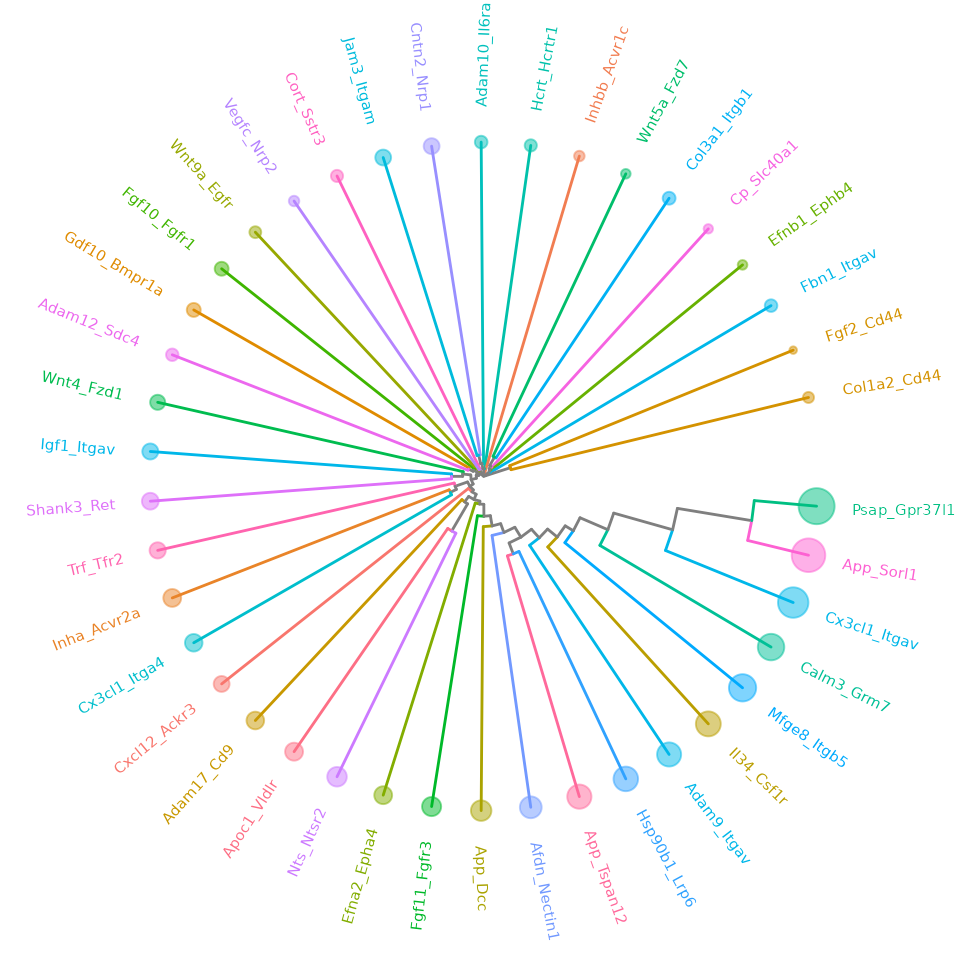
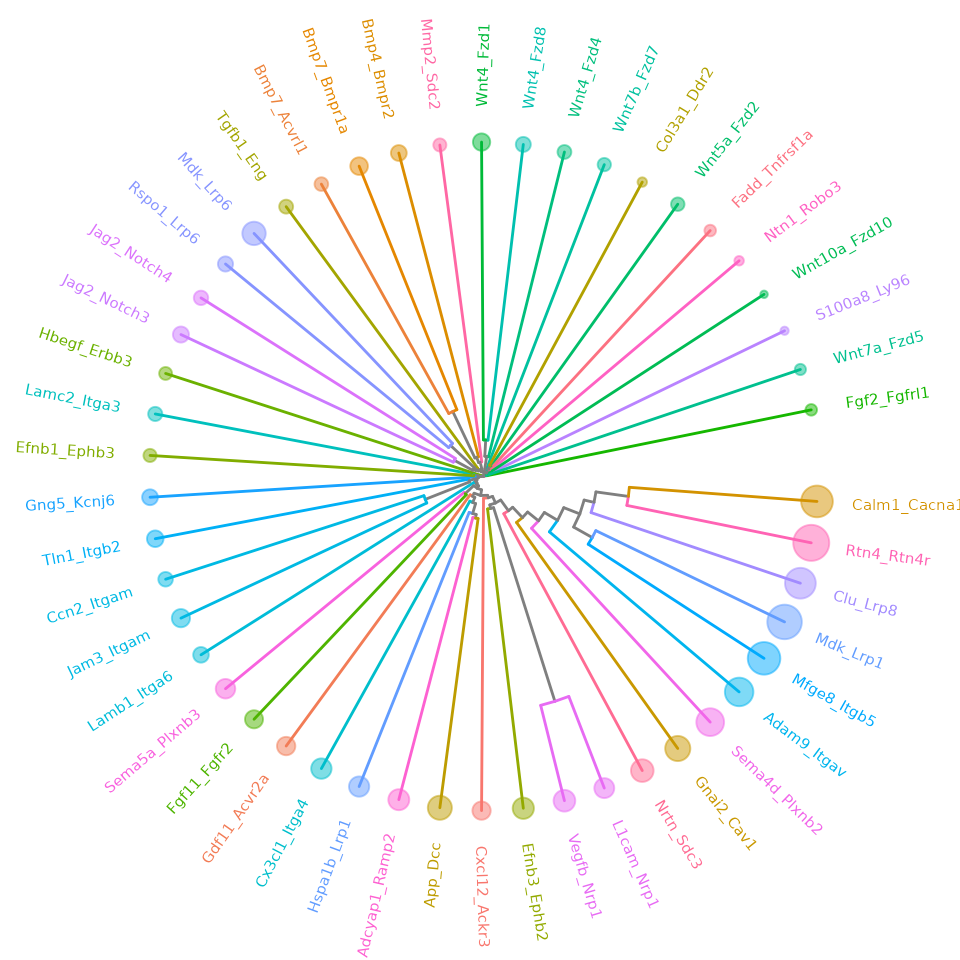
Deploying to gh-pages from @ skimlab/spatialCCC@8913e9cb30334f1d5c7f32b35a7b2b37467f4e1b 🚀

diff --git a/articles/article-1.html b/articles/article-1.html
@@ -129,16 +129,16 @@ retrieve the database.</p>
 <span><span class="co">#&gt; <span style="color: #949494;"># A tibble: 105 × 10</span></span></span>
 <span><span class="co">#&gt;    LR    ligand_gene_symbol receptor_gene_symbol ligand_gene_id receptor_gene_id</span></span>
 <span><span class="co">#&gt;    <span style="color: #949494; font-style: italic;">&lt;chr&gt;</span> <span style="color: #949494; font-style: italic;">&lt;chr&gt;</span>              <span style="color: #949494; font-style: italic;">&lt;chr&gt;</span>                         <span style="color: #949494; font-style: italic;">&lt;dbl&gt;</span>            <span style="color: #949494; font-style: italic;">&lt;dbl&gt;</span></span></span>
-<span><span class="co">#&gt; <span style="color: #BCBCBC;"> 1</span> Adam… Adam10             Il6ra                         <span style="text-decoration: underline;">11</span>487            <span style="text-decoration: underline;">16</span>194</span></span>
-<span><span class="co">#&gt; <span style="color: #BCBCBC;"> 2</span> Adam… Adam12             Sdc4                          <span style="text-decoration: underline;">11</span>489            <span style="text-decoration: underline;">20</span>971</span></span>
-<span><span class="co">#&gt; <span style="color: #BCBCBC;"> 3</span> Adam… Adam17             Cd9                           <span style="text-decoration: underline;">11</span>491            <span style="text-decoration: underline;">12</span>527</span></span>
-<span><span class="co">#&gt; <span style="color: #BCBCBC;"> 4</span> Adam… Adam2              Itgb1                         <span style="text-decoration: underline;">11</span>495            <span style="text-decoration: underline;">16</span>412</span></span>
-<span><span class="co">#&gt; <span style="color: #BCBCBC;"> 5</span> Adam… Adam9              Itgav                         <span style="text-decoration: underline;">11</span>502            <span style="text-decoration: underline;">16</span>410</span></span>
-<span><span class="co">#&gt; <span style="color: #BCBCBC;"> 6</span> Afdn… Afdn               Nectin1                       <span style="text-decoration: underline;">17</span>356            <span style="text-decoration: underline;">58</span>235</span></span>
-<span><span class="co">#&gt; <span style="color: #BCBCBC;"> 7</span> Agrn… Agrn               Musk                          <span style="text-decoration: underline;">11</span>603            <span style="text-decoration: underline;">18</span>198</span></span>
-<span><span class="co">#&gt; <span style="color: #BCBCBC;"> 8</span> Amel… Amelx              Cd63                          <span style="text-decoration: underline;">11</span>704            <span style="text-decoration: underline;">12</span>512</span></span>
-<span><span class="co">#&gt; <span style="color: #BCBCBC;"> 9</span> Apob… Apob               Lrp6                         <span style="text-decoration: underline;">238</span>055            <span style="text-decoration: underline;">16</span>974</span></span>
-<span><span class="co">#&gt; <span style="color: #BCBCBC;">10</span> Apoc… Apoc1              Vldlr                         <span style="text-decoration: underline;">11</span>812            <span style="text-decoration: underline;">22</span>359</span></span>
+<span><span class="co">#&gt; <span style="color: #BCBCBC;"> 1</span> Adam… Adam17             Tnfrsf1b                      <span style="text-decoration: underline;">11</span>491            <span style="text-decoration: underline;">21</span>938</span></span>
+<span><span class="co">#&gt; <span style="color: #BCBCBC;"> 2</span> Adam… Adam9              Itgav                         <span style="text-decoration: underline;">11</span>502            <span style="text-decoration: underline;">16</span>410</span></span>
+<span><span class="co">#&gt; <span style="color: #BCBCBC;"> 3</span> Adcy… Adcyap1            Ramp2                         <span style="text-decoration: underline;">11</span>516            <span style="text-decoration: underline;">54</span>409</span></span>
+<span><span class="co">#&gt; <span style="color: #BCBCBC;"> 4</span> Adip… Adipoq             Adipor2                       <span style="text-decoration: underline;">11</span>450            <span style="text-decoration: underline;">68</span>465</span></span>
+<span><span class="co">#&gt; <span style="color: #BCBCBC;"> 5</span> Adm2… Adm2               Calcrl                       <span style="text-decoration: underline;">223</span>780            <span style="text-decoration: underline;">54</span>598</span></span>
+<span><span class="co">#&gt; <span style="color: #BCBCBC;"> 6</span> Agt_… Agt                Agtr1a                        <span style="text-decoration: underline;">11</span>606            <span style="text-decoration: underline;">11</span>607</span></span>
+<span><span class="co">#&gt; <span style="color: #BCBCBC;"> 7</span> Apob… Apob               Cd36                         <span style="text-decoration: underline;">238</span>055            <span style="text-decoration: underline;">12</span>491</span></span>
+<span><span class="co">#&gt; <span style="color: #BCBCBC;"> 8</span> Apoe… Apoe               Sdc1                          <span style="text-decoration: underline;">11</span>816            <span style="text-decoration: underline;">20</span>969</span></span>
+<span><span class="co">#&gt; <span style="color: #BCBCBC;"> 9</span> App_… App                Dcc                           <span style="text-decoration: underline;">11</span>820            <span style="text-decoration: underline;">13</span>176</span></span>
+<span><span class="co">#&gt; <span style="color: #BCBCBC;">10</span> Bmp4… Bmp4               Bmpr2                         <span style="text-decoration: underline;">12</span>159            <span style="text-decoration: underline;">12</span>168</span></span>
 <span><span class="co">#&gt; <span style="color: #949494;"># ℹ 95 more rows</span></span></span>
 <span><span class="co">#&gt; <span style="color: #949494;"># ℹ 5 more variables: ligand_ensembl_protein_id &lt;chr&gt;,</span></span></span>
 <span><span class="co">#&gt; <span style="color: #949494;">#   receptor_ensembl_protein_id &lt;chr&gt;, ligand_ensembl_gene_id &lt;chr&gt;,</span></span></span>
@@ -196,26 +196,26 @@ retrieve the database.</p>
 <span>                               assay_name <span class="op">=</span> <span class="st">"logcounts"</span>,</span>
 <span>                               LRdb <span class="op">=</span> <span class="va">LRdb_m</span><span class="op">)</span></span>
 <span><span class="fu">tictoc</span><span class="fu">::</span><span class="fu"><a href="https://rdrr.io/pkg/tictoc/man/tic.html" class="external-link">toc</a></span><span class="op">(</span><span class="op">)</span></span>
-<span><span class="co">#&gt; 20.547 sec elapsed</span></span>
+<span><span class="co">#&gt; 22.789 sec elapsed</span></span>
 <span></span>
 <span><span class="co"># future::plan(future::sequential)</span></span></code></pre></div>
 <div class="sourceCode" id="cb8"><pre class="downlit sourceCode r">
 <code class="sourceCode R"><span><span class="va">ccc_tbl</span> <span class="op"><a href="https://magrittr.tidyverse.org/reference/pipe.html" class="external-link">%&gt;%</a></span> </span>
 <span>  <span class="fu">dplyr</span><span class="fu">::</span><span class="fu"><a href="https://dplyr.tidyverse.org/reference/arrange.html" class="external-link">arrange</a></span><span class="op">(</span><span class="fu">desc</span><span class="op">(</span><span class="va">LRscore</span><span class="op">)</span><span class="op">)</span></span>
-<span><span class="co">#&gt; <span style="color: #949494;"># A tibble: 134,740 × 10</span></span></span>
+<span><span class="co">#&gt; <span style="color: #949494;"># A tibble: 113,546 × 10</span></span></span>
 <span><span class="co">#&gt;    src          dst       d norm.d LR    ligand receptor LRscore weight WLRscore</span></span>
 <span><span class="co">#&gt;    <span style="color: #949494; font-style: italic;">&lt;chr&gt;</span>        <span style="color: #949494; font-style: italic;">&lt;chr&gt;</span> <span style="color: #949494; font-style: italic;">&lt;dbl&gt;</span>  <span style="color: #949494; font-style: italic;">&lt;dbl&gt;</span> <span style="color: #949494; font-style: italic;">&lt;chr&gt;</span> <span style="color: #949494; font-style: italic;">&lt;chr&gt;</span>  <span style="color: #949494; font-style: italic;">&lt;chr&gt;</span>      <span style="color: #949494; font-style: italic;">&lt;dbl&gt;</span>  <span style="color: #949494; font-style: italic;">&lt;dbl&gt;</span>    <span style="color: #949494; font-style: italic;">&lt;dbl&gt;</span></span></span>
-<span><span class="co">#&gt; <span style="color: #BCBCBC;"> 1</span> AATGCAACCGG… GCTC…  138.   1.01 Psap… Psap   Gpr37l1    0.868  0.980    0.850</span></span>
-<span><span class="co">#&gt; <span style="color: #BCBCBC;"> 2</span> CTGTGCAGGGT… CCTA…  138    1.01 Psap… Psap   Gpr37l1    0.866  0.986    0.854</span></span>
-<span><span class="co">#&gt; <span style="color: #BCBCBC;"> 3</span> AGTATTTGGCA… GGGC…  138.   1.01 Psap… Psap   Gpr37l1    0.866  0.987    0.854</span></span>
-<span><span class="co">#&gt; <span style="color: #BCBCBC;"> 4</span> TAGTGTCAGAA… GTTA…  138.   1.01 Psap… Psap   Gpr37l1    0.865  0.980    0.848</span></span>
-<span><span class="co">#&gt; <span style="color: #BCBCBC;"> 5</span> CGTGCTGGCCT… GGGT…  137    1    Psap… Psap   Gpr37l1    0.865  1        0.865</span></span>
-<span><span class="co">#&gt; <span style="color: #BCBCBC;"> 6</span> TTCAAAGTCTC… TATT…  138.   1.00 Psap… Psap   Gpr37l1    0.865  0.992    0.858</span></span>
-<span><span class="co">#&gt; <span style="color: #BCBCBC;"> 7</span> TTGCTGCACCT… GTTA…  138    1.01 Psap… Psap   Gpr37l1    0.865  0.986    0.852</span></span>
-<span><span class="co">#&gt; <span style="color: #BCBCBC;"> 8</span> TTGTTAGCAAA… TGCT…  138.   1.01 Psap… Psap   Gpr37l1    0.865  0.980    0.847</span></span>
-<span><span class="co">#&gt; <span style="color: #BCBCBC;"> 9</span> TCGTGTCACGC… CAAA…  138.   1.01 Psap… Psap   Gpr37l1    0.865  0.980    0.847</span></span>
-<span><span class="co">#&gt; <span style="color: #BCBCBC;">10</span> ATCGCACGCCG… GCTC…  138.   1.01 Psap… Psap   Gpr37l1    0.864  0.980    0.846</span></span>
-<span><span class="co">#&gt; <span style="color: #949494;"># ℹ 134,730 more rows</span></span></span></code></pre></div>
+<span><span class="co">#&gt; <span style="color: #BCBCBC;"> 1</span> GATATGGATTA… GATA…    0    0    Clu_… Clu    Lrp8       0.858  1        0.858</span></span>
+<span><span class="co">#&gt; <span style="color: #BCBCBC;"> 2</span> TCACATCTTAT… GATA…  138.   1.01 Clu_… Clu    Lrp8       0.852  0.986    0.840</span></span>
+<span><span class="co">#&gt; <span style="color: #BCBCBC;"> 3</span> TCGTCACACTG… GATA…  138.   1.01 Clu_… Clu    Lrp8       0.850  0.980    0.833</span></span>
+<span><span class="co">#&gt; <span style="color: #BCBCBC;"> 4</span> TTATCGCCTGC… GATA…  138.   1.01 Clu_… Clu    Lrp8       0.849  0.980    0.832</span></span>
+<span><span class="co">#&gt; <span style="color: #BCBCBC;"> 5</span> TTGATTATGCA… TTAT…  138    1.01 Clu_… Clu    Lrp8       0.846  0.986    0.834</span></span>
+<span><span class="co">#&gt; <span style="color: #BCBCBC;"> 6</span> CGCAAACACGA… TTAT…  137    1    Clu_… Clu    Lrp8       0.845  1        0.845</span></span>
+<span><span class="co">#&gt; <span style="color: #BCBCBC;"> 7</span> CTAATTCGCAC… TTAT…  138.   1.00 Clu_… Clu    Lrp8       0.844  0.992    0.838</span></span>
+<span><span class="co">#&gt; <span style="color: #BCBCBC;"> 8</span> AGAGCAGTTAT… GATA…  138.   1.00 Clu_… Clu    Lrp8       0.844  0.992    0.837</span></span>
+<span><span class="co">#&gt; <span style="color: #BCBCBC;"> 9</span> TGTCGGCATGG… GGGT…  138    1.01 Rtn4… Rtn4   Rtn4r      0.844  0.986    0.831</span></span>
+<span><span class="co">#&gt; <span style="color: #BCBCBC;">10</span> TCAGTACTGAC… TTAT…  138.   1.01 Clu_… Clu    Lrp8       0.843  0.980    0.826</span></span>
+<span><span class="co">#&gt; <span style="color: #949494;"># ℹ 113,536 more rows</span></span></span></code></pre></div>
 <div class="section level3">
 <h3 id="add-cluster-lables-to-ccc-table-">Add cluster lables to CCC table.<a class="anchor" aria-label="anchor" href="#add-cluster-lables-to-ccc-table-"></a>
 </h3>
@@ -240,40 +240,40 @@ retrieve the database.</p>
 <span></span>
 <span><span class="va">ccc_tbl_between_clusters</span> <span class="op"><a href="https://magrittr.tidyverse.org/reference/pipe.html" class="external-link">%&gt;%</a></span></span>
 <span>  <span class="fu">dplyr</span><span class="fu">::</span><span class="fu"><a href="https://dplyr.tidyverse.org/reference/arrange.html" class="external-link">arrange</a></span><span class="op">(</span><span class="fu">desc</span><span class="op">(</span><span class="va">n</span><span class="op">)</span><span class="op">)</span></span>
-<span><span class="co">#&gt; <span style="color: #949494;"># A tibble: 1,371 × 6</span></span></span>
+<span><span class="co">#&gt; <span style="color: #949494;"># A tibble: 1,603 × 6</span></span></span>
 <span><span class="co">#&gt; <span style="color: #949494;"># Groups:   mclust_8.src, mclust_8.dst [46]</span></span></span>
-<span><span class="co">#&gt;    mclust_8.src mclust_8.dst LR               n LRscore.sum WLRscore.sum</span></span>
-<span><span class="co">#&gt;    <span style="color: #949494; font-style: italic;">&lt;fct&gt;</span>        <span style="color: #949494; font-style: italic;">&lt;fct&gt;</span>        <span style="color: #949494; font-style: italic;">&lt;chr&gt;</span>        <span style="color: #949494; font-style: italic;">&lt;int&gt;</span>       <span style="color: #949494; font-style: italic;">&lt;dbl&gt;</span>        <span style="color: #949494; font-style: italic;">&lt;dbl&gt;</span></span></span>
-<span><span class="co">#&gt; <span style="color: #BCBCBC;"> 1</span> 3            3            Psap_Gpr37l1  <span style="text-decoration: underline;">4</span>646       <span style="text-decoration: underline;">3</span>815.        <span style="text-decoration: underline;">3</span>773.</span></span>
-<span><span class="co">#&gt; <span style="color: #BCBCBC;"> 2</span> 3            3            App_Sorl1     <span style="text-decoration: underline;">3</span>811       <span style="text-decoration: underline;">2</span>902.        <span style="text-decoration: underline;">2</span>871.</span></span>
-<span><span class="co">#&gt; <span style="color: #BCBCBC;"> 3</span> 3            3            Cx3cl1_Itgav  <span style="text-decoration: underline;">2</span>470       <span style="text-decoration: underline;">1</span>681.        <span style="text-decoration: underline;">1</span>663.</span></span>
-<span><span class="co">#&gt; <span style="color: #BCBCBC;"> 4</span> 3            3            Mfge8_Itgb5   <span style="text-decoration: underline;">2</span>237       <span style="text-decoration: underline;">1</span>466.        <span style="text-decoration: underline;">1</span>450.</span></span>
-<span><span class="co">#&gt; <span style="color: #BCBCBC;"> 5</span> 2            2            Psap_Gpr37l1  <span style="text-decoration: underline;">2</span>195       <span style="text-decoration: underline;">1</span>782.        <span style="text-decoration: underline;">1</span>762.</span></span>
-<span><span class="co">#&gt; <span style="color: #BCBCBC;"> 6</span> 3            3            Calm3_Grm7    <span style="text-decoration: underline;">1</span>911       <span style="text-decoration: underline;">1</span>388.        <span style="text-decoration: underline;">1</span>373.</span></span>
-<span><span class="co">#&gt; <span style="color: #BCBCBC;"> 7</span> 3            3            Nts_Ntsr2     <span style="text-decoration: underline;">1</span>853       <span style="text-decoration: underline;">1</span>317.        <span style="text-decoration: underline;">1</span>302.</span></span>
-<span><span class="co">#&gt; <span style="color: #BCBCBC;"> 8</span> 2            2            App_Sorl1     <span style="text-decoration: underline;">1</span>737       <span style="text-decoration: underline;">1</span>346.        <span style="text-decoration: underline;">1</span>331.</span></span>
-<span><span class="co">#&gt; <span style="color: #BCBCBC;"> 9</span> 1            1            Psap_Gpr37l1  <span style="text-decoration: underline;">1</span>711       <span style="text-decoration: underline;">1</span>393.        <span style="text-decoration: underline;">1</span>378.</span></span>
-<span><span class="co">#&gt; <span style="color: #BCBCBC;">10</span> 4            4            Psap_Gpr37l1  <span style="text-decoration: underline;">1</span>623       <span style="text-decoration: underline;">1</span>340.        <span style="text-decoration: underline;">1</span>325.</span></span>
-<span><span class="co">#&gt; <span style="color: #949494;"># ℹ 1,361 more rows</span></span></span></code></pre></div>
+<span><span class="co">#&gt;    mclust_8.src mclust_8.dst LR                n LRscore.sum WLRscore.sum</span></span>
+<span><span class="co">#&gt;    <span style="color: #949494; font-style: italic;">&lt;fct&gt;</span>        <span style="color: #949494; font-style: italic;">&lt;fct&gt;</span>        <span style="color: #949494; font-style: italic;">&lt;chr&gt;</span>         <span style="color: #949494; font-style: italic;">&lt;int&gt;</span>       <span style="color: #949494; font-style: italic;">&lt;dbl&gt;</span>        <span style="color: #949494; font-style: italic;">&lt;dbl&gt;</span></span></span>
+<span><span class="co">#&gt; <span style="color: #BCBCBC;"> 1</span> 3            3            Mdk_Lrp1       <span style="text-decoration: underline;">3</span>225       <span style="text-decoration: underline;">2</span>246.        <span style="text-decoration: underline;">2</span>221.</span></span>
+<span><span class="co">#&gt; <span style="color: #BCBCBC;"> 2</span> 3            3            Mfge8_Itgb5    <span style="text-decoration: underline;">2</span>237       <span style="text-decoration: underline;">1</span>466.        <span style="text-decoration: underline;">1</span>450.</span></span>
+<span><span class="co">#&gt; <span style="color: #BCBCBC;"> 3</span> 2            2            Rtn4_Rtn4r     <span style="text-decoration: underline;">1</span>717       <span style="text-decoration: underline;">1</span>294.        <span style="text-decoration: underline;">1</span>279.</span></span>
+<span><span class="co">#&gt; <span style="color: #BCBCBC;"> 4</span> 3            3            Clu_Lrp8       <span style="text-decoration: underline;">1</span>709       <span style="text-decoration: underline;">1</span>267.        <span style="text-decoration: underline;">1</span>253.</span></span>
+<span><span class="co">#&gt; <span style="color: #BCBCBC;"> 5</span> 3            3            Calm1_Cacna1c  <span style="text-decoration: underline;">1</span>646       <span style="text-decoration: underline;">1</span>230.        <span style="text-decoration: underline;">1</span>217.</span></span>
+<span><span class="co">#&gt; <span style="color: #BCBCBC;"> 6</span> 3            3            Rtn4_Rtn4r     <span style="text-decoration: underline;">1</span>643       <span style="text-decoration: underline;">1</span>153.        <span style="text-decoration: underline;">1</span>141.</span></span>
+<span><span class="co">#&gt; <span style="color: #BCBCBC;"> 7</span> 1            1            Rtn4_Rtn4r     <span style="text-decoration: underline;">1</span>617       <span style="text-decoration: underline;">1</span>267.        <span style="text-decoration: underline;">1</span>253.</span></span>
+<span><span class="co">#&gt; <span style="color: #BCBCBC;"> 8</span> 3            3            Sema4d_Plxnb2  <span style="text-decoration: underline;">1</span>521        944.         934.</span></span>
+<span><span class="co">#&gt; <span style="color: #BCBCBC;"> 9</span> 2            2            Mdk_Lrp1       <span style="text-decoration: underline;">1</span>233        838.         829.</span></span>
+<span><span class="co">#&gt; <span style="color: #BCBCBC;">10</span> 6            6            Rtn4_Rtn4r     <span style="text-decoration: underline;">1</span>232        945.         935.</span></span>
+<span><span class="co">#&gt; <span style="color: #949494;"># ℹ 1,593 more rows</span></span></span></code></pre></div>
 <div class="sourceCode" id="cb11"><pre class="downlit sourceCode r">
 <code class="sourceCode R"><span><span class="va">ccc_tbl_between_clusters</span> <span class="op"><a href="https://magrittr.tidyverse.org/reference/pipe.html" class="external-link">%&gt;%</a></span></span>
 <span>  <span class="fu">dplyr</span><span class="fu">::</span><span class="fu"><a href="https://dplyr.tidyverse.org/reference/filter.html" class="external-link">filter</a></span><span class="op">(</span><span class="va">mclust_8.dst</span> <span class="op">!=</span> <span class="va">mclust_8.src</span><span class="op">)</span> <span class="op"><a href="https://magrittr.tidyverse.org/reference/pipe.html" class="external-link">%&gt;%</a></span></span>
 <span>  <span class="fu">dplyr</span><span class="fu">::</span><span class="fu"><a href="https://dplyr.tidyverse.org/reference/arrange.html" class="external-link">arrange</a></span><span class="op">(</span><span class="fu">desc</span><span class="op">(</span><span class="va">n</span><span class="op">)</span><span class="op">)</span></span>
-<span><span class="co">#&gt; <span style="color: #949494;"># A tibble: 1,044 × 6</span></span></span>
+<span><span class="co">#&gt; <span style="color: #949494;"># A tibble: 1,214 × 6</span></span></span>
 <span><span class="co">#&gt; <span style="color: #949494;"># Groups:   mclust_8.src, mclust_8.dst [38]</span></span></span>
-<span><span class="co">#&gt;    mclust_8.src mclust_8.dst LR               n LRscore.sum WLRscore.sum</span></span>
-<span><span class="co">#&gt;    <span style="color: #949494; font-style: italic;">&lt;fct&gt;</span>        <span style="color: #949494; font-style: italic;">&lt;fct&gt;</span>        <span style="color: #949494; font-style: italic;">&lt;chr&gt;</span>        <span style="color: #949494; font-style: italic;">&lt;int&gt;</span>       <span style="color: #949494; font-style: italic;">&lt;dbl&gt;</span>        <span style="color: #949494; font-style: italic;">&lt;dbl&gt;</span></span></span>
-<span><span class="co">#&gt; <span style="color: #BCBCBC;"> 1</span> 3            5            Psap_Gpr37l1   329        268.         264.</span></span>
-<span><span class="co">#&gt; <span style="color: #BCBCBC;"> 2</span> 5            3            Psap_Gpr37l1   327        270.         266.</span></span>
-<span><span class="co">#&gt; <span style="color: #BCBCBC;"> 3</span> 3            5            App_Sorl1      276        215.         212.</span></span>
-<span><span class="co">#&gt; <span style="color: #BCBCBC;"> 4</span> 5            3            App_Sorl1      250        193.         190.</span></span>
-<span><span class="co">#&gt; <span style="color: #BCBCBC;"> 5</span> 3            8            Psap_Gpr37l1   222        182.         179.</span></span>
-<span><span class="co">#&gt; <span style="color: #BCBCBC;"> 6</span> 8            3            Psap_Gpr37l1   218        179.         177.</span></span>
-<span><span class="co">#&gt; <span style="color: #BCBCBC;"> 7</span> 3            5            Cx3cl1_Itgav   202        140.         138.</span></span>
-<span><span class="co">#&gt; <span style="color: #BCBCBC;"> 8</span> 3            8            App_Sorl1      170        132.         130.</span></span>
-<span><span class="co">#&gt; <span style="color: #BCBCBC;"> 9</span> 3            5            Mfge8_Itgb5    161        110.         109.</span></span>
-<span><span class="co">#&gt; <span style="color: #BCBCBC;">10</span> 8            3            App_Sorl1      154        119.         118.</span></span>
-<span><span class="co">#&gt; <span style="color: #949494;"># ℹ 1,034 more rows</span></span></span></code></pre></div>
+<span><span class="co">#&gt;    mclust_8.src mclust_8.dst LR                n LRscore.sum WLRscore.sum</span></span>
+<span><span class="co">#&gt;    <span style="color: #949494; font-style: italic;">&lt;fct&gt;</span>        <span style="color: #949494; font-style: italic;">&lt;fct&gt;</span>        <span style="color: #949494; font-style: italic;">&lt;chr&gt;</span>         <span style="color: #949494; font-style: italic;">&lt;int&gt;</span>       <span style="color: #949494; font-style: italic;">&lt;dbl&gt;</span>        <span style="color: #949494; font-style: italic;">&lt;dbl&gt;</span></span></span>
+<span><span class="co">#&gt; <span style="color: #BCBCBC;"> 1</span> 3            5            Rtn4_Rtn4r      194       146.         143. </span></span>
+<span><span class="co">#&gt; <span style="color: #BCBCBC;"> 2</span> 5            3            Mdk_Lrp1        178       124.         122. </span></span>
+<span><span class="co">#&gt; <span style="color: #BCBCBC;"> 3</span> 3            5            Mdk_Lrp1        167       121.         119. </span></span>
+<span><span class="co">#&gt; <span style="color: #BCBCBC;"> 4</span> 3            5            Calm1_Cacna1c   163       123.         121. </span></span>
+<span><span class="co">#&gt; <span style="color: #BCBCBC;"> 5</span> 3            5            Mfge8_Itgb5     161       110.         109. </span></span>
+<span><span class="co">#&gt; <span style="color: #BCBCBC;"> 6</span> 1            6            Rtn4_Rtn4r      145       114.         112. </span></span>
+<span><span class="co">#&gt; <span style="color: #BCBCBC;"> 7</span> 6            1            Rtn4_Rtn4r      144       113.         112. </span></span>
+<span><span class="co">#&gt; <span style="color: #BCBCBC;"> 8</span> 3            8            Mdk_Lrp1        136        95.5         94.1</span></span>
+<span><span class="co">#&gt; <span style="color: #BCBCBC;"> 9</span> 6            7            Rtn4_Rtn4r      136       106.         104. </span></span>
+<span><span class="co">#&gt; <span style="color: #BCBCBC;">10</span> 3            5            Clu_Lrp8        130        97.9         96.5</span></span>
+<span><span class="co">#&gt; <span style="color: #949494;"># ℹ 1,204 more rows</span></span></span></code></pre></div>
 </div>
 <div class="section level3">
 <h3 id="convert-ccc-table-to-ccc-graph">Convert CCC table to CCC graph<a class="anchor" aria-label="anchor" href="#convert-ccc-table-to-ccc-graph"></a>
@@ -288,7 +288,7 @@ retrieve the database.</p>
 <span>  <span class="fu"><a href="../reference/to_spatial_ccc_graph_list.html">to_spatial_ccc_graph_list</a></span><span class="op">(</span><span class="va">ccc_tbl</span>, <span class="va">sp_col_data</span>, workers <span class="op">=</span> <span class="fl">6</span><span class="op">)</span></span>
 <span></span>
 <span><span class="fu">tictoc</span><span class="fu">::</span><span class="fu"><a href="https://rdrr.io/pkg/tictoc/man/tic.html" class="external-link">toc</a></span><span class="op">(</span><span class="op">)</span></span>
-<span><span class="co">#&gt; to_spatical_ccc_graph ...: 71.281 sec elapsed</span></span></code></pre></div>
+<span><span class="co">#&gt; to_spatical_ccc_graph ...: 90.435 sec elapsed</span></span></code></pre></div>
 <p>summarize_ccc_graph_metrics() summarize those graph metrics for each
 LR pair.</p>
 <div class="sourceCode" id="cb13"><pre class="downlit sourceCode r">
@@ -298,24 +298,24 @@ LR pair.</p>
 <span>  <span class="fu"><a href="../reference/summarize_ccc_graph_metrics.html">summarize_ccc_graph_metrics</a></span><span class="op">(</span><span class="va">ccc_graph_list</span><span class="op">)</span></span>
 <span></span>
 <span><span class="fu">tictoc</span><span class="fu">::</span><span class="fu"><a href="https://rdrr.io/pkg/tictoc/man/tic.html" class="external-link">toc</a></span><span class="op">(</span><span class="op">)</span></span>
-<span><span class="co">#&gt; 0.187 sec elapsed</span></span></code></pre></div>
+<span><span class="co">#&gt; 0.221 sec elapsed</span></span></code></pre></div>
 <div class="sourceCode" id="cb14"><pre class="downlit sourceCode r">
 <code class="sourceCode R"><span><span class="va">ccc_graph_metrics_summary_df</span> <span class="op"><a href="https://magrittr.tidyverse.org/reference/pipe.html" class="external-link">%&gt;%</a></span></span>
 <span>  <span class="fu">dplyr</span><span class="fu">::</span><span class="fu"><a href="https://dplyr.tidyverse.org/reference/arrange.html" class="external-link">arrange</a></span><span class="op">(</span><span class="va">graph_component_count</span><span class="op">)</span></span>
-<span><span class="co">#&gt; <span style="color: #949494;"># A tibble: 41 × 12</span></span></span>
+<span><span class="co">#&gt; <span style="color: #949494;"># A tibble: 49 × 12</span></span></span>
 <span><span class="co">#&gt;    LR        graph_n_nodes graph_n_edges graph_component_count graph_motif_count</span></span>
 <span><span class="co">#&gt;    <span style="color: #949494; font-style: italic;">&lt;chr&gt;</span>             <span style="color: #949494; font-style: italic;">&lt;int&gt;</span>         <span style="color: #949494; font-style: italic;">&lt;dbl&gt;</span>                 <span style="color: #949494; font-style: italic;">&lt;dbl&gt;</span>             <span style="color: #949494; font-style: italic;">&lt;int&gt;</span></span></span>
-<span><span class="co">#&gt; <span style="color: #BCBCBC;"> 1</span> App_Sorl1          <span style="text-decoration: underline;">2</span>691         <span style="text-decoration: underline;">15</span>120                     3             <span style="text-decoration: underline;">26</span>088</span></span>
-<span><span class="co">#&gt; <span style="color: #BCBCBC;"> 2</span> Psap_Gpr…          <span style="text-decoration: underline;">2</span>699         <span style="text-decoration: underline;">18</span>020                     3             <span style="text-decoration: underline;">27</span>988</span></span>
-<span><span class="co">#&gt; <span style="color: #BCBCBC;"> 3</span> Mfge8_It…          <span style="text-decoration: underline;">2</span>509          <span style="text-decoration: underline;">8</span>700                     4             <span style="text-decoration: underline;">17</span>113</span></span>
-<span><span class="co">#&gt; <span style="color: #BCBCBC;"> 4</span> Cx3cl1_I…          <span style="text-decoration: underline;">2</span>617         <span style="text-decoration: underline;">11</span>724                     4             <span style="text-decoration: underline;">21</span>978</span></span>
-<span><span class="co">#&gt; <span style="color: #BCBCBC;"> 5</span> Calm3_Gr…          <span style="text-decoration: underline;">2</span>544          <span style="text-decoration: underline;">8</span>044                     9             <span style="text-decoration: underline;">16</span>327</span></span>
-<span><span class="co">#&gt; <span style="color: #BCBCBC;"> 6</span> Hsp90b1_…          <span style="text-decoration: underline;">2</span>461          <span style="text-decoration: underline;">6</span>507                     9             <span style="text-decoration: underline;">13</span>394</span></span>
-<span><span class="co">#&gt; <span style="color: #BCBCBC;"> 7</span> App_Tspa…          <span style="text-decoration: underline;">2</span>461          <span style="text-decoration: underline;">6</span>241                    11             <span style="text-decoration: underline;">13</span>068</span></span>
-<span><span class="co">#&gt; <span style="color: #BCBCBC;"> 8</span> Adam9_It…          <span style="text-decoration: underline;">2</span>128          <span style="text-decoration: underline;">6</span>146                    17             <span style="text-decoration: underline;">11</span>349</span></span>
-<span><span class="co">#&gt; <span style="color: #BCBCBC;"> 9</span> Il34_Csf…          <span style="text-decoration: underline;">2</span>154          <span style="text-decoration: underline;">6</span>780                    22             <span style="text-decoration: underline;">12</span>742</span></span>
-<span><span class="co">#&gt; <span style="color: #BCBCBC;">10</span> Afdn_Nec…          <span style="text-decoration: underline;">1</span>900          <span style="text-decoration: underline;">4</span>589                    31              <span style="text-decoration: underline;">8</span>028</span></span>
-<span><span class="co">#&gt; <span style="color: #949494;"># ℹ 31 more rows</span></span></span>
+<span><span class="co">#&gt; <span style="color: #BCBCBC;"> 1</span> Mfge8_It…          <span style="text-decoration: underline;">2</span>509          <span style="text-decoration: underline;">8</span>700                     4             <span style="text-decoration: underline;">17</span>113</span></span>
+<span><span class="co">#&gt; <span style="color: #BCBCBC;"> 2</span> Rtn4_Rtn…          <span style="text-decoration: underline;">2</span>590         <span style="text-decoration: underline;">11</span>251                     5             <span style="text-decoration: underline;">20</span>250</span></span>
+<span><span class="co">#&gt; <span style="color: #BCBCBC;"> 3</span> Mdk_Lrp1           <span style="text-decoration: underline;">2</span>588         <span style="text-decoration: underline;">10</span>099                     5             <span style="text-decoration: underline;">19</span>447</span></span>
+<span><span class="co">#&gt; <span style="color: #BCBCBC;"> 4</span> Clu_Lrp8           <span style="text-decoration: underline;">2</span>527          <span style="text-decoration: underline;">7</span>510                     6             <span style="text-decoration: underline;">15</span>497</span></span>
+<span><span class="co">#&gt; <span style="color: #BCBCBC;"> 5</span> Calm1_Ca…          <span style="text-decoration: underline;">2</span>462          <span style="text-decoration: underline;">8</span>111                     6             <span style="text-decoration: underline;">16</span>315</span></span>
+<span><span class="co">#&gt; <span style="color: #BCBCBC;"> 6</span> Sema4d_P…          <span style="text-decoration: underline;">2</span>079          <span style="text-decoration: underline;">5</span>690                    14             <span style="text-decoration: underline;">10</span>292</span></span>
+<span><span class="co">#&gt; <span style="color: #BCBCBC;"> 7</span> Adam9_It…          <span style="text-decoration: underline;">2</span>128          <span style="text-decoration: underline;">6</span>146                    17             <span style="text-decoration: underline;">11</span>349</span></span>
+<span><span class="co">#&gt; <span style="color: #BCBCBC;"> 8</span> Gnai2_Ca…          <span style="text-decoration: underline;">2</span>175          <span style="text-decoration: underline;">4</span>327                    26              <span style="text-decoration: underline;">8</span>931</span></span>
+<span><span class="co">#&gt; <span style="color: #BCBCBC;"> 9</span> Wnt10a_F…            92            74                    32                48</span></span>
+<span><span class="co">#&gt; <span style="color: #BCBCBC;">10</span> Mdk_Lrp6           <span style="text-decoration: underline;">1</span>764          <span style="text-decoration: underline;">3</span>528                    40              <span style="text-decoration: underline;">5</span>802</span></span>
+<span><span class="co">#&gt; <span style="color: #949494;"># ℹ 39 more rows</span></span></span>
 <span><span class="co">#&gt; <span style="color: #949494;"># ℹ 7 more variables: graph_diameter &lt;dbl&gt;, graph_un_diameter &lt;dbl&gt;,</span></span></span>
 <span><span class="co">#&gt; <span style="color: #949494;">#   graph_mean_dist &lt;dbl&gt;, graph_circuit_rank &lt;dbl&gt;, graph_reciprocity &lt;dbl&gt;,</span></span></span>
 <span><span class="co">#&gt; <span style="color: #949494;">#   graph_clique_num &lt;int&gt;, graph_clique_count &lt;int&gt;</span></span></span></code></pre></div>
@@ -328,23 +328,23 @@ metrics for each subgraph (group) in CCC graph (LR)</p>
 <span>  <span class="fu"><a href="../reference/summarize_ccc_graph_metrics.html">summarize_ccc_graph_metrics</a></span><span class="op">(</span><span class="va">ccc_graph_list</span>, level <span class="op">=</span> <span class="st">"group"</span><span class="op">)</span></span>
 <span></span>
 <span><span class="fu">tictoc</span><span class="fu">::</span><span class="fu"><a href="https://rdrr.io/pkg/tictoc/man/tic.html" class="external-link">toc</a></span><span class="op">(</span><span class="op">)</span></span>
-<span><span class="co">#&gt; 0.179 sec elapsed</span></span></code></pre></div>
+<span><span class="co">#&gt; 0.238 sec elapsed</span></span></code></pre></div>
 <div class="sourceCode" id="cb16"><pre class="downlit sourceCode r">
 <code class="sourceCode R"><span><span class="va">ccc_graph_group_metrics_summary_df</span> </span>
-<span><span class="co">#&gt; <span style="color: #949494;"># A tibble: 2,912 × 12</span></span></span>
+<span><span class="co">#&gt; <span style="color: #949494;"># A tibble: 4,039 × 12</span></span></span>
 <span><span class="co">#&gt;    LR         group group_n_nodes group_n_edges group_adhesion group_motif_count</span></span>
 <span><span class="co">#&gt;    <span style="color: #949494; font-style: italic;">&lt;chr&gt;</span>      <span style="color: #949494; font-style: italic;">&lt;int&gt;</span>         <span style="color: #949494; font-style: italic;">&lt;int&gt;</span>         <span style="color: #949494; font-style: italic;">&lt;dbl&gt;</span>          <span style="color: #949494; font-style: italic;">&lt;dbl&gt;</span>             <span style="color: #949494; font-style: italic;">&lt;int&gt;</span></span></span>
-<span><span class="co">#&gt; <span style="color: #BCBCBC;"> 1</span> Cp_Slc40a1    11             4             3              0                 3</span></span>
-<span><span class="co">#&gt; <span style="color: #BCBCBC;"> 2</span> Cp_Slc40a1    40             2             1              0                 0</span></span>
-<span><span class="co">#&gt; <span style="color: #BCBCBC;"> 3</span> Cp_Slc40a1    12             4             3              0                 2</span></span>
-<span><span class="co">#&gt; <span style="color: #BCBCBC;"> 4</span> Cp_Slc40a1     1            11            13              0                16</span></span>
-<span><span class="co">#&gt; <span style="color: #BCBCBC;"> 5</span> Cp_Slc40a1    80             1             1              0                 0</span></span>
-<span><span class="co">#&gt; <span style="color: #BCBCBC;"> 6</span> Cp_Slc40a1     5             6             7              0                 8</span></span>
-<span><span class="co">#&gt; <span style="color: #BCBCBC;"> 7</span> Cp_Slc40a1    41             2             1              0                 0</span></span>
-<span><span class="co">#&gt; <span style="color: #BCBCBC;"> 8</span> Cp_Slc40a1     2             8            16              0                13</span></span>
-<span><span class="co">#&gt; <span style="color: #BCBCBC;"> 9</span> Cp_Slc40a1    20             3             2              0                 1</span></span>
-<span><span class="co">#&gt; <span style="color: #BCBCBC;">10</span> Cp_Slc40a1    42             2             1              0                 0</span></span>
-<span><span class="co">#&gt; <span style="color: #949494;"># ℹ 2,902 more rows</span></span></span>
+<span><span class="co">#&gt; <span style="color: #BCBCBC;"> 1</span> Clu_Lrp8       1          <span style="text-decoration: underline;">2</span>503          <span style="text-decoration: underline;">7</span>478              0             <span style="text-decoration: underline;">15</span>464</span></span>
+<span><span class="co">#&gt; <span style="color: #BCBCBC;"> 2</span> Clu_Lrp8       3             5             5              0                 6</span></span>
+<span><span class="co">#&gt; <span style="color: #BCBCBC;"> 3</span> Clu_Lrp8       4             5            13              0                 8</span></span>
+<span><span class="co">#&gt; <span style="color: #BCBCBC;"> 4</span> Clu_Lrp8       6             3             3              0                 1</span></span>
+<span><span class="co">#&gt; <span style="color: #BCBCBC;"> 5</span> Clu_Lrp8       2             7             7              0                15</span></span>
+<span><span class="co">#&gt; <span style="color: #BCBCBC;"> 6</span> Clu_Lrp8       5             4             4              0                 3</span></span>
+<span><span class="co">#&gt; <span style="color: #BCBCBC;"> 7</span> Adam9_Itg…     1          <span style="text-decoration: underline;">1</span>952          <span style="text-decoration: underline;">5</span>850              0             <span style="text-decoration: underline;">10</span>957</span></span>
+<span><span class="co">#&gt; <span style="color: #BCBCBC;"> 8</span> Adam9_Itg…     2            68           125              0               161</span></span>
+<span><span class="co">#&gt; <span style="color: #BCBCBC;"> 9</span> Adam9_Itg…     3            59           122              0               203</span></span>
+<span><span class="co">#&gt; <span style="color: #BCBCBC;">10</span> Adam9_Itg…    17             1             1              0                 0</span></span>
+<span><span class="co">#&gt; <span style="color: #949494;"># ℹ 4,029 more rows</span></span></span>
 <span><span class="co">#&gt; <span style="color: #949494;"># ℹ 6 more variables: group_diameter &lt;dbl&gt;, group_un_diameter &lt;dbl&gt;,</span></span></span>
 <span><span class="co">#&gt; <span style="color: #949494;">#   group_mean_dist &lt;dbl&gt;, group_girth &lt;dbl&gt;, group_circuit_rank &lt;dbl&gt;,</span></span></span>
 <span><span class="co">#&gt; <span style="color: #949494;">#   group_reciprocity &lt;dbl&gt;</span></span></span></code></pre></div>
@@ -519,7 +519,7 @@ package.</p>
 <span>  <span class="fu"><a href="../reference/dist_cell_overlap_ccc_tbl.html">dist_cell_overlap_ccc_tbl</a></span><span class="op">(</span><span class="va">ccc_tbl</span><span class="op">)</span></span>
 <span></span>
 <span><span class="fu">tictoc</span><span class="fu">::</span><span class="fu"><a href="https://rdrr.io/pkg/tictoc/man/tic.html" class="external-link">toc</a></span><span class="op">(</span><span class="op">)</span></span>
-<span><span class="co">#&gt; 0.883 sec elapsed</span></span></code></pre></div>
+<span><span class="co">#&gt; 0.832 sec elapsed</span></span></code></pre></div>
 <div class="sourceCode" id="cb30"><pre class="downlit sourceCode r">
 <code class="sourceCode R"><span><span class="fu">tictoc</span><span class="fu">::</span><span class="fu"><a href="https://rdrr.io/pkg/tictoc/man/tic.html" class="external-link">tic</a></span><span class="op">(</span><span class="op">)</span></span>
 <span></span>
@@ -527,7 +527,7 @@ package.</p>
 <span>  <span class="fu"><a href="../reference/lf_cell_overlap_ccc_tbl.html">lf_cell_overlap_ccc_tbl</a></span><span class="op">(</span><span class="va">ccc_tbl</span><span class="op">)</span></span>
 <span></span>
 <span><span class="fu">tictoc</span><span class="fu">::</span><span class="fu"><a href="https://rdrr.io/pkg/tictoc/man/tic.html" class="external-link">toc</a></span><span class="op">(</span><span class="op">)</span></span>
-<span><span class="co">#&gt; 0.88 sec elapsed</span></span></code></pre></div>
+<span><span class="co">#&gt; 1.128 sec elapsed</span></span></code></pre></div>
 <div class="sourceCode" id="cb31"><pre class="downlit sourceCode r">
 <code class="sourceCode R"><span><span class="fu">tictoc</span><span class="fu">::</span><span class="fu"><a href="https://rdrr.io/pkg/tictoc/man/tic.html" class="external-link">tic</a></span><span class="op">(</span><span class="op">)</span></span>
 <span></span>
@@ -538,7 +538,7 @@ package.</p>
 <span>  <span class="fu"><a href="https://rdrr.io/r/base/unlist.html" class="external-link">unlist</a></span><span class="op">(</span><span class="op">)</span> <span class="op"><a href="https://magrittr.tidyverse.org/reference/pipe.html" class="external-link">%&gt;%</a></span> <span class="fu"><a href="https://rdrr.io/r/base/unique.html" class="external-link">unique</a></span><span class="op">(</span><span class="op">)</span></span>
 <span></span>
 <span><span class="fu">tictoc</span><span class="fu">::</span><span class="fu"><a href="https://rdrr.io/pkg/tictoc/man/tic.html" class="external-link">toc</a></span><span class="op">(</span><span class="op">)</span></span>
-<span><span class="co">#&gt; 0.007 sec elapsed</span></span></code></pre></div>
+<span><span class="co">#&gt; 0.008 sec elapsed</span></span></code></pre></div>
 <div class="sourceCode" id="cb32"><pre class="downlit sourceCode r">
 <code class="sourceCode R"><span><span class="fu">tictoc</span><span class="fu">::</span><span class="fu"><a href="https://rdrr.io/pkg/tictoc/man/tic.html" class="external-link">tic</a></span><span class="op">(</span><span class="op">)</span></span>
 <span></span>
@@ -557,7 +557,7 @@ package.</p>
 <span>  <span class="fu"><a href="../reference/lf_to_dist.html">lf_to_dist</a></span><span class="op">(</span><span class="op">)</span></span>
 <span></span>
 <span><span class="fu">tictoc</span><span class="fu">::</span><span class="fu"><a href="https://rdrr.io/pkg/tictoc/man/tic.html" class="external-link">toc</a></span><span class="op">(</span><span class="op">)</span></span>
-<span><span class="co">#&gt; 0.02 sec elapsed</span></span></code></pre></div>
+<span><span class="co">#&gt; 0.022 sec elapsed</span></span></code></pre></div>
 <div class="sourceCode" id="cb34"><pre class="downlit sourceCode r">
 <code class="sourceCode R"><span><span class="va">LR_ccc_summary_tbl</span> <span class="op">&lt;-</span></span>
 <span>  <span class="va">ccc_tbl</span> <span class="op"><a href="https://magrittr.tidyverse.org/reference/pipe.html" class="external-link">%&gt;%</a></span> </span>
